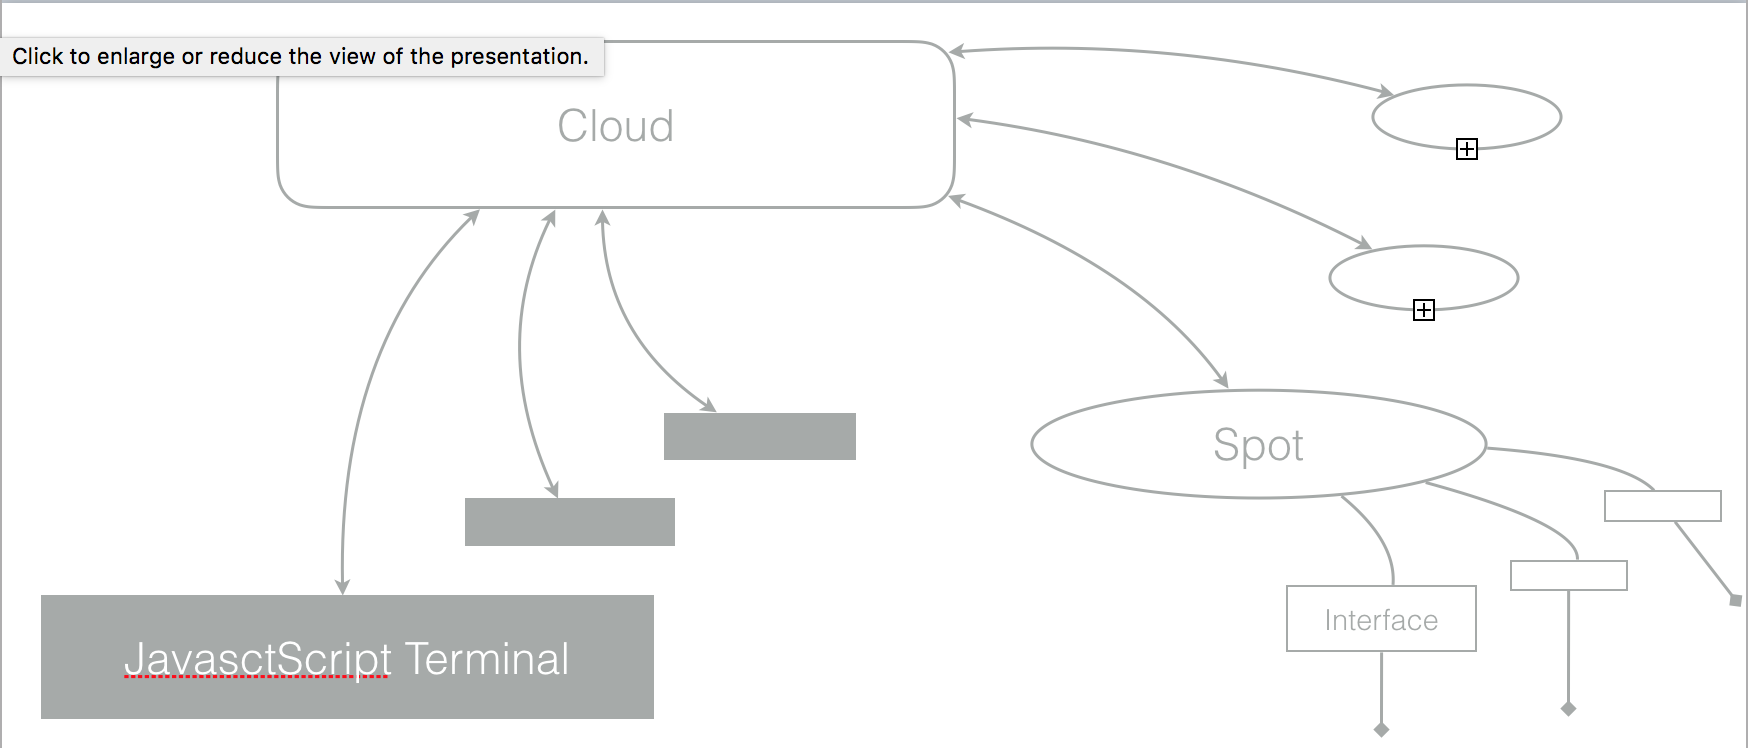
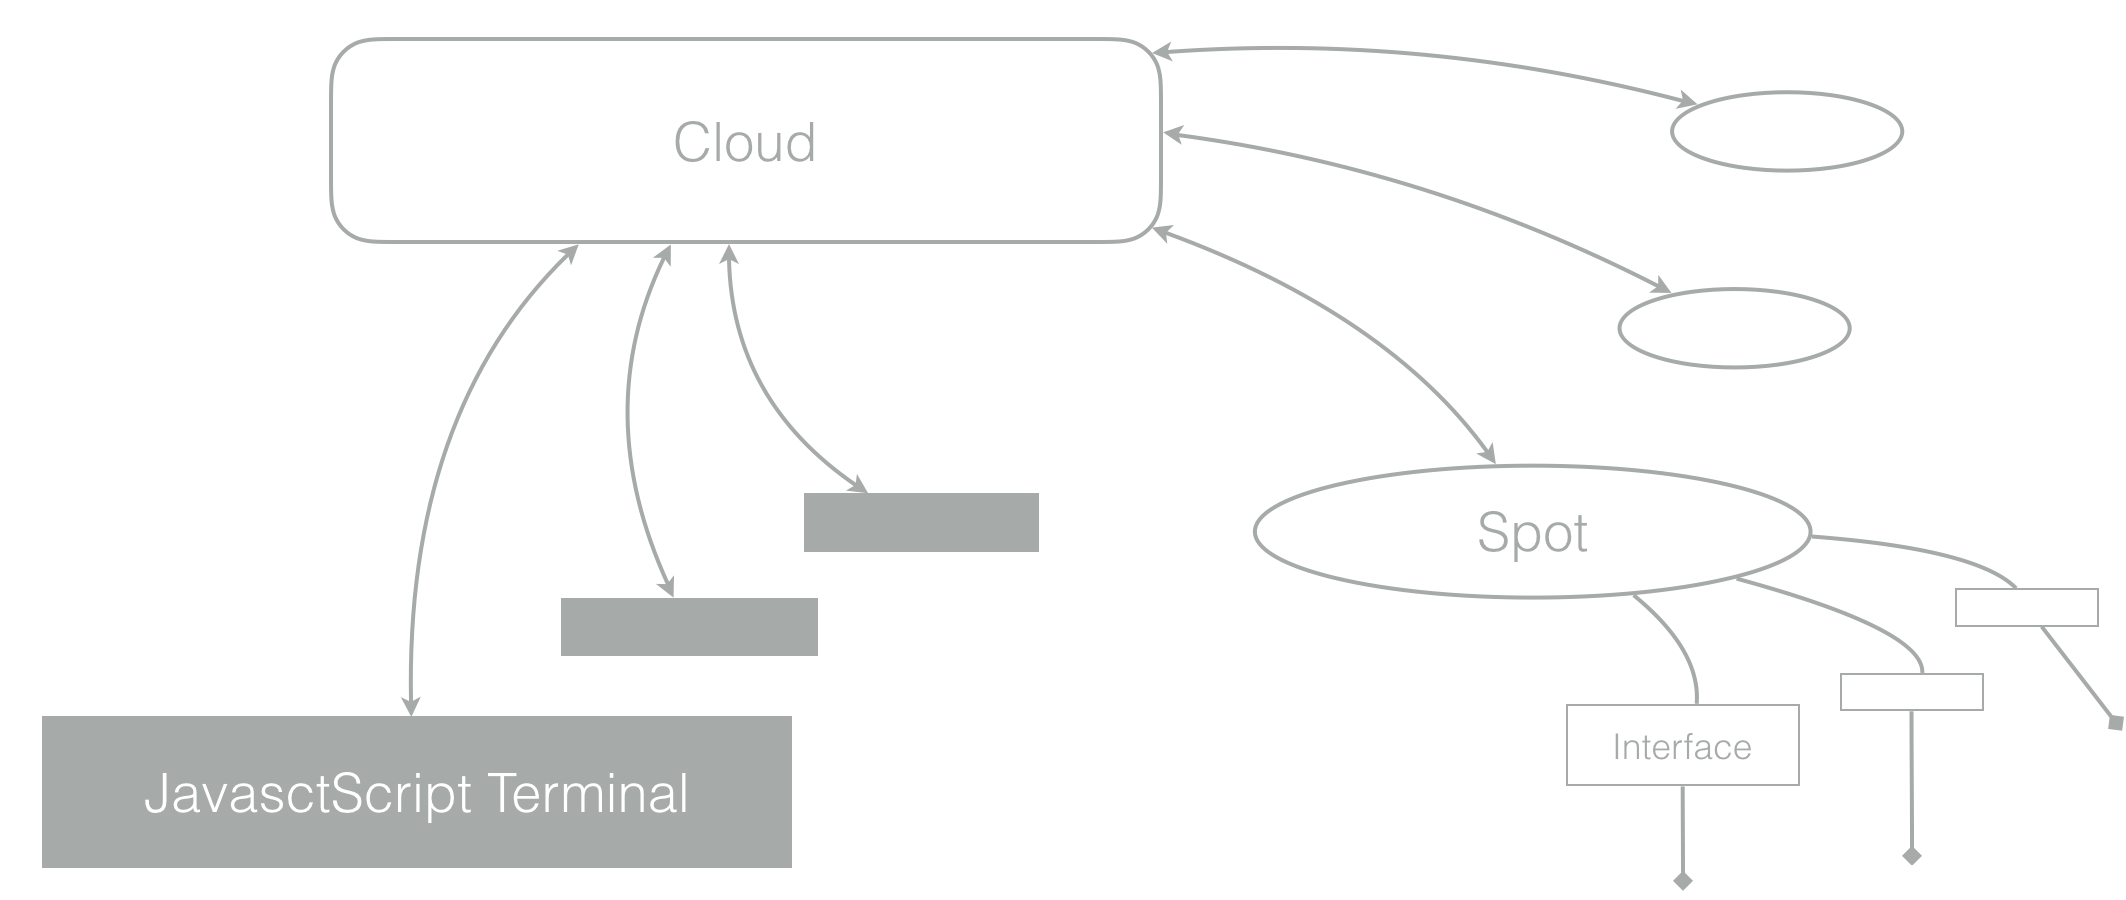
Update docs

diff --git a/ci/build.js b/ci/build.js
@@ -15,7 +15,8 @@ apeTasking.runTasks('build', [
   () => coz.render([
     '.*.bud',
     'lib/.*.bud',
-    'example/.*.bud',
+    // TODO
+    // 'example/.*.bud',
     'test/.*.bud'
   ])
 ], true)

diff --git a/README.md b/README.md
@@ -87,7 +87,12 @@ co(function * () {
 Mechanism
 -----
 
+**Sugo-Spots** receives commands from remote terminal via **Sugo-Cloud**
+
+##### Structure
+
 ![Structure Image](./doc/images/structure.png)
+
 
 <!-- Section from "doc/guides/00.Mechanisms.md.hbs" End -->
 
